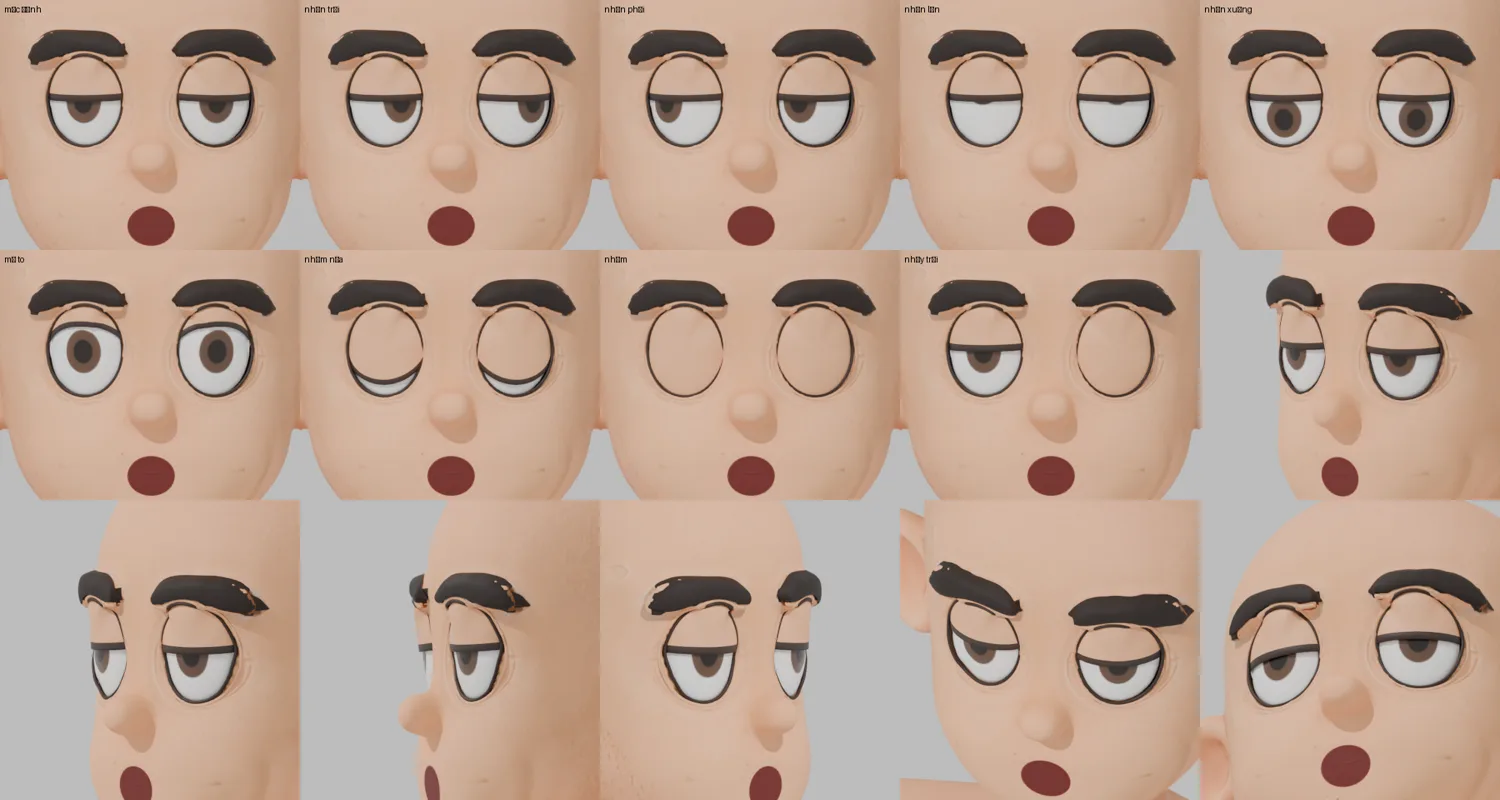
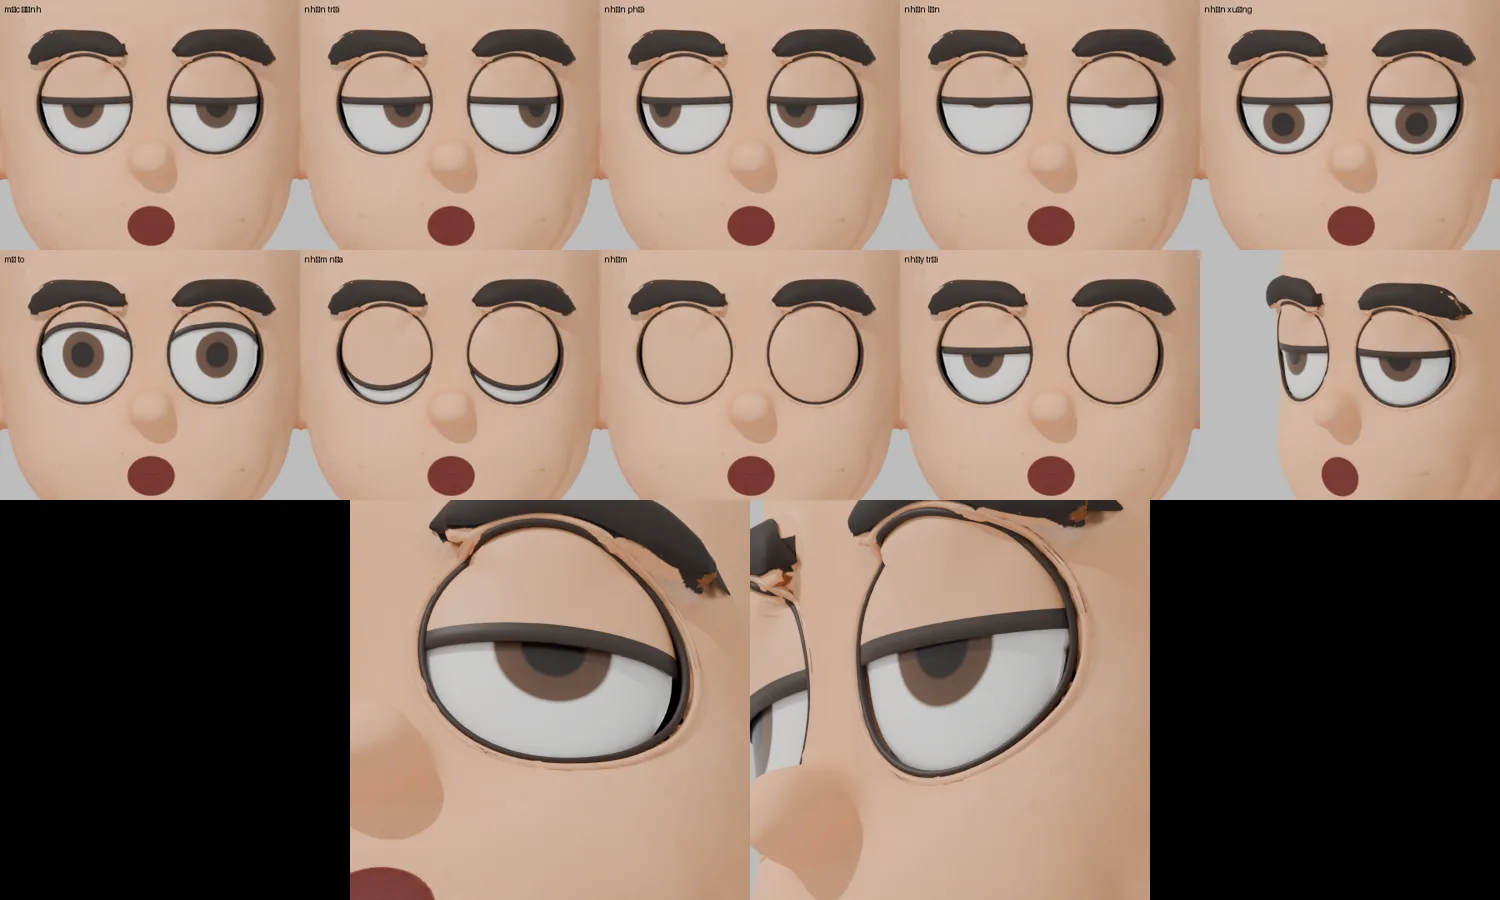
fix(nam-002): khoét hốc mắt theo nếp hốc trên lưới thay vì viền vẽ
Claude-Session: https://claude.ai/code/session_015xtvRfLqUD2K9LfPtx8x7k

diff --git a/assets/nhan-vat-3d/nam-002/mat_nam002.py b/assets/nhan-vat-3d/nam-002/mat_nam002.py
@@ -12,8 +12,8 @@ import bpy, bmesh
 import numpy as np
 from mathutils import Vector, Matrix
 
-EYE_X, EYE_Z = 0.052, 1.5295
-RX, RZ = 0.0340, 0.0405          # bán trục viền ngoài (ngang, dọc)
+EYE_X, EYE_Z = 0.052, 1.5268      # theo nếp hốc trên lưới (viền vẽ cũ: z 1,5295)
+RX, RZ = 0.0415, 0.0435  # nếp hốc: rộng hơn viền vẽ 22 %, cao hơn 7,5 % (trễ xuống dưới); viền vẽ cũ 0,0340 × 0,0405
 VIEN = 0.0040                    # bề dày nét viền vẽ: lỗ khoét nằm bên trong nét
 SAU_HOC = 0.012                  # độ sâu tường hốc
 HO = 0.0030                      # mặt trước nhãn cầu lùi sau mặt da

diff --git a/assets/nhan-vat-3d/nam-002/README.md b/assets/nhan-vat-3d/nam-002/README.md
@@ -105,3 +105,5 @@ Còn lại: mép lông mày còn viền nhạt, lởm chởm. Quanh hốc còn m
 - Gờ nổi sần trên lưới da vùng mày được làm phẳng bằng Taubin (90 vòng).
 - Ngoài nét viền mắt có thêm một vành da mỏng (`VanhDa.L/R`, dùng vật liệu da) để che mép cắt lởm chởm. Tường hốc đổi sang màu da tối.
 - **Còn lại:** đầu ngoài lông mày nhìn nghiêng còn vệt nâu cam, do màu vẽ cũ ở mặt bên đầu nằm ngoài vùng tô từ phía trước.
+
+**Khoét theo nếp hốc (15/11/2026):** lỗ khoét giờ theo nếp hốc mắt có sẵn trên lưới (chủ repo khoanh), không theo viền vẽ trên texture nữa. Elip mới có tâm z = 1,5268 m, bán trục 41,5 × 43,5 mm, tức rộng hơn viền vẽ 22% và trễ xuống dưới. Nhãn cầu (77 × 81 mm), mí và viền 3D đều theo elip này. Dải da lõm giữa viền vẽ và nếp, cùng các gai ở mép cắt, đã hết.
